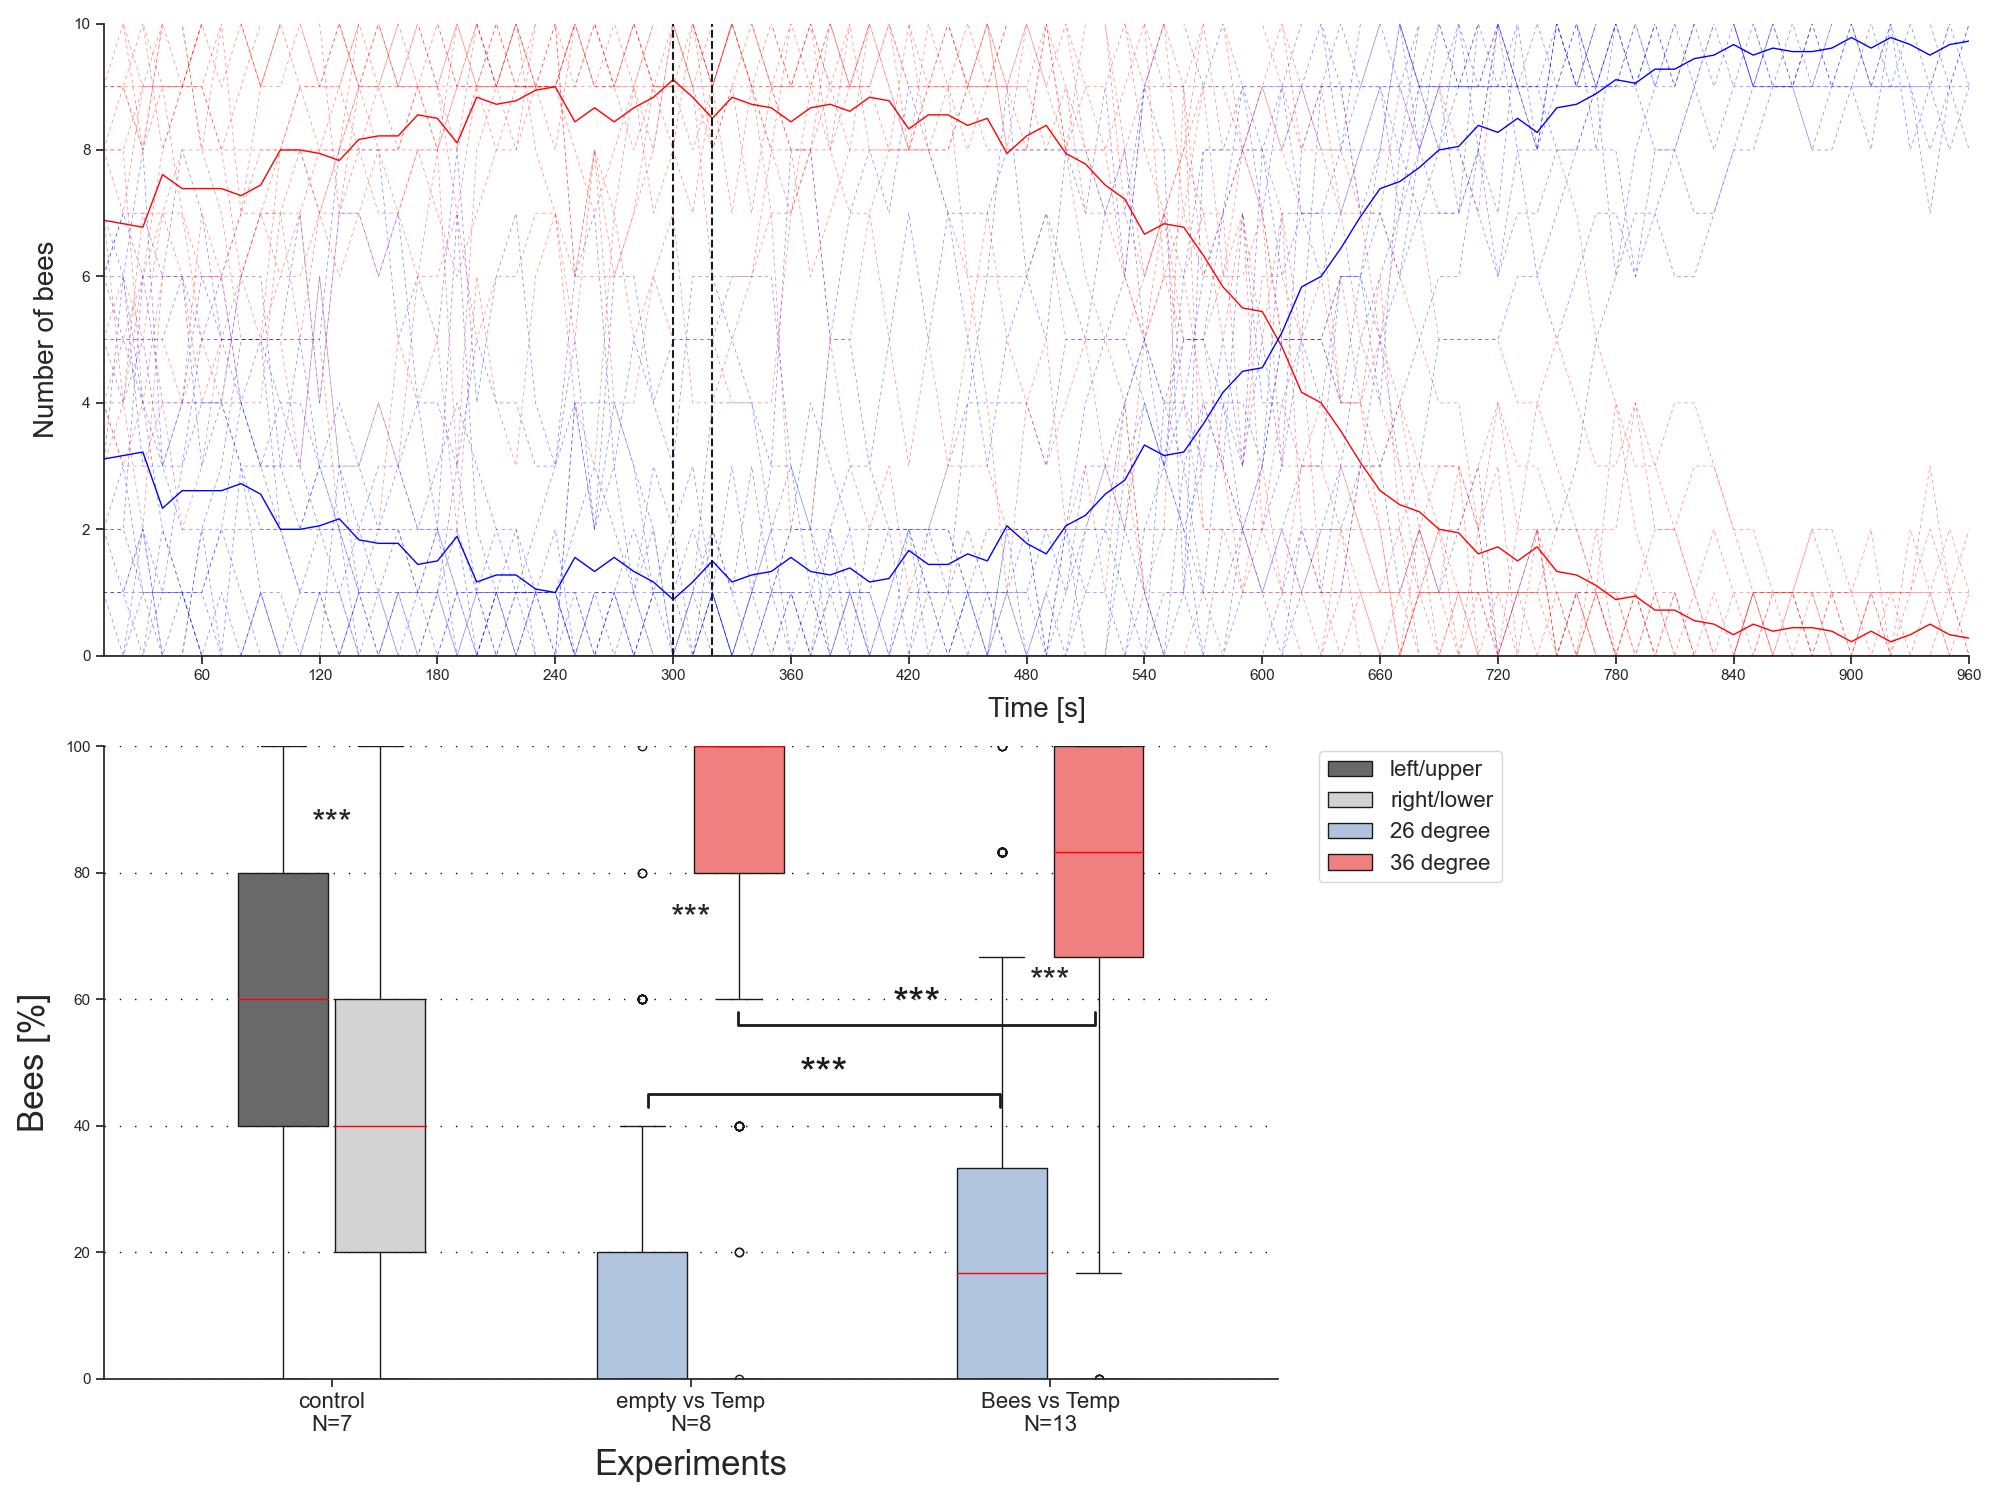
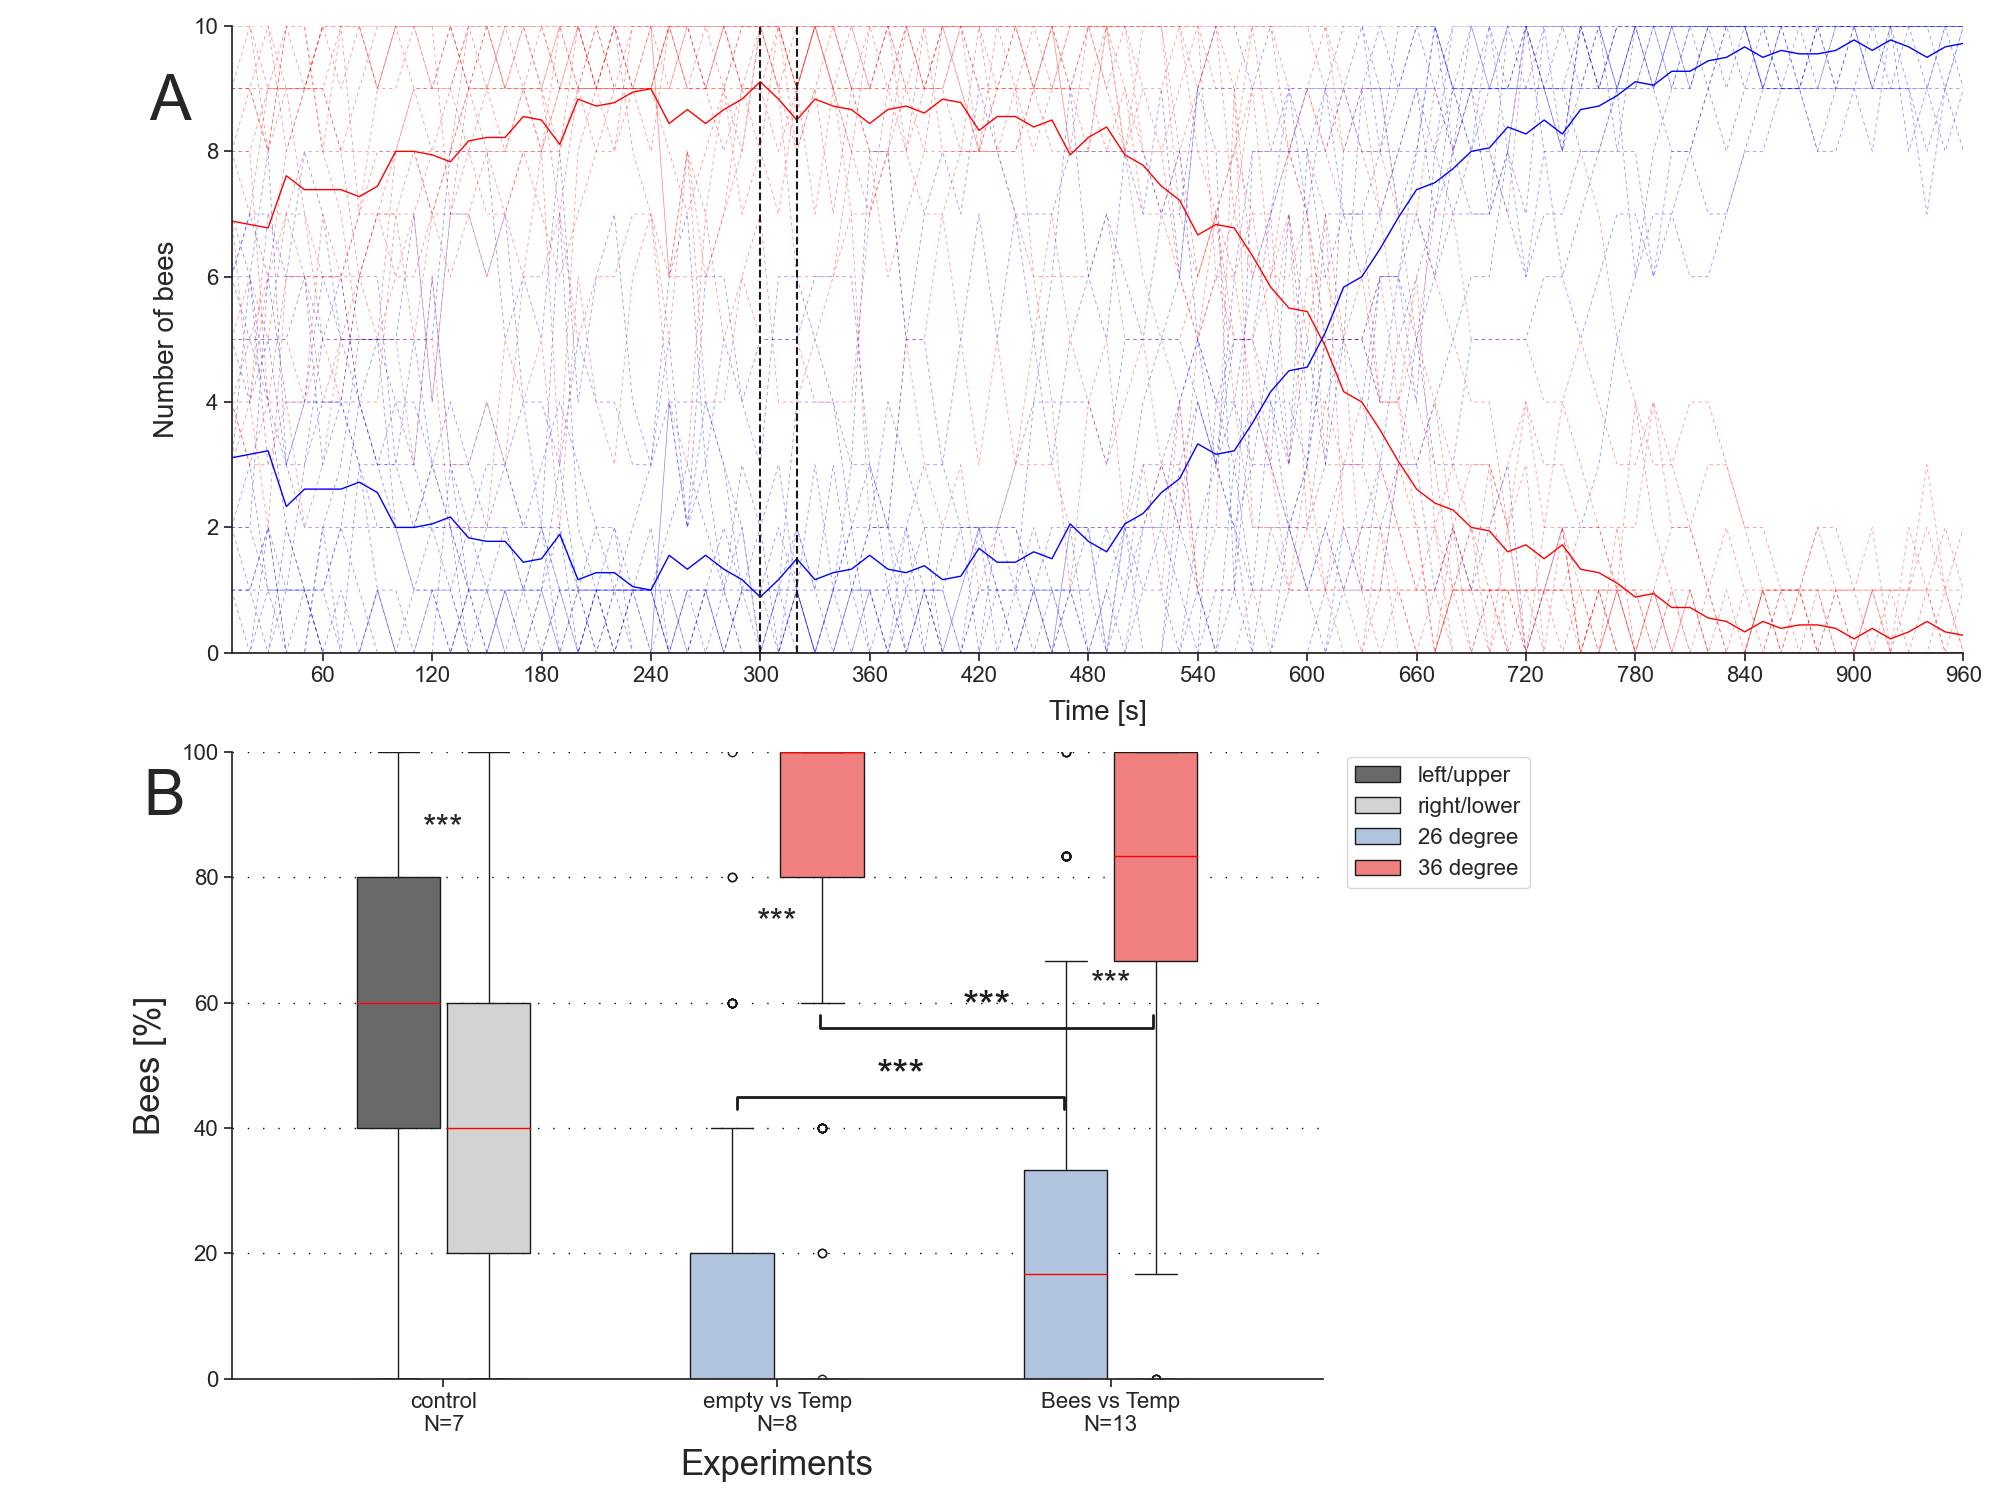
dataprocessing and plotting done

diff --git a/HuberBoxDataProcessing/plotting_Huberbox.py b/HuberBoxDataProcessing/plotting_Huberbox.py
@@ -38,7 +38,7 @@ def boxplot(
     fig0, (ax0, ax1) = plt.subplots(2, 1, figsize=(12, 10))
     AXIS = (ax0, ax1)
     ax0.set_ylim(0, 25)
-    ax1.set_ylim(0, 9)
+    ax1.set_ylim(0, 7)
     
     # all settings that are needed for both plots
     for ax in AXIS:
@@ -87,6 +87,27 @@ def boxplot(
     ax1.annotate('***', xy=(0, 5.5), xytext=(0, 0), textcoords='offset points', ha='center', va='bottom', fontsize=25)
     ax1.annotate('***', xy=(1, 5.5), xytext=(0, 0), textcoords='offset points', ha='center', va='bottom', fontsize=25)
     ax1.annotate('***', xy=(2, 5.5), xytext=(0, 0), textcoords='offset points', ha='center', va='bottom', fontsize=25)
+    ax0.text(-0.85, 21, 'A', fontdict={'fontsize': 45})
+    ax1.text(-0.9, 6.1, 'B', fontdict={'fontsize': 45})
+    ax0.tick_params(axis='y', which='major', labelsize=16)
+    ax1.tick_params(axis='y', which='major', labelsize=16)
+    
+    ax0.text(-0.19, 11, 'N=11', fontdict={'fontsize': 16})
+    ax0.text(0.08, 22, 'N=11', fontdict={'fontsize': 16})
+    ax0.text(0.82, 6, 'N=6', fontdict={'fontsize': 16})
+    ax0.text(1.09, 5, 'N=6', fontdict={'fontsize': 16})
+
+    ax1.text(-0.3, 2.4, 'N=6', fontdict={'fontsize': 16})
+    ax1.text(0.18, 3, 'N=5', fontdict={'fontsize': 16})
+    
+    ax1.text(0.65, 2.3, 'N=22', fontdict={'fontsize': 16})
+    ax1.text(1.18, 2.8, 'N=22', fontdict={'fontsize': 16})
+    
+    ax1.text(1.7, 2.1, 'N=6', fontdict={'fontsize': 16})
+    ax1.text(2.18, 2.4, 'N=6', fontdict={'fontsize': 16})
+
+
+
 
     fig0.tight_layout()
     plt.savefig(os.path.join(os.path.dirname(path), 'graphs', 'Boxplot_TimeTogether.png'))

diff --git a/Casu/plotting_Casu.py b/Casu/plotting_Casu.py
@@ -19,14 +19,18 @@ def plotting_plot(
     WIDTH = 0.25
 
     fig1 = plt.figure(figsize=(20, 15))
-    ax = plt.subplot(2, 3, (1, 3))
-    ax0 = plt.subplot(2, 3, (4, 5))
+    ax = plt.subplot(2, 10, (2, 10))
+    ax0 = plt.subplot(2, 10, (12, 17))
     ax.set_xlim(10, 960)
     ax.set_ylim(0, 10)
     ax.xaxis.set_major_locator(MultipleLocator(60))
     ax.set_ylabel('Number of bees', fontsize=20, labelpad=10)
     ax.set_xlabel('Time [s]', fontsize=20, labelpad=10)
-
+    ax.tick_params(axis='both', which='major', labelsize=16)
+    ax0.tick_params(axis='y', which='major', labelsize=16)
+    ax.text(-35, 8.5, 'A', fontdict={'fontsize': 45})
+    ax0.text(-0.9, 90, 'B', fontdict={'fontsize': 45})
+    
     for i in y_casu_1:
         ax.plot(x_axis, i, color='red', alpha=0.5, linewidth=0.5, linestyle=(0, (5, 5)))
 

diff --git a/HuberBoxDataProcessing/Huberbox.py b/HuberBoxDataProcessing/Huberbox.py
@@ -116,7 +116,7 @@ def main():
     TestData = [
         [np_array_two_26, np_array_two_36],
         [np_array_two_26, np_array_three_26],
-        [np_array_two_36, np_array_three_36],
+        [np_array_three_36, np_array_two_36],
         [np_array_three_26, np_array_three_36],
         [speedOne26array, speedOne36array],
         [speedTwo26array, speedTwo36array],
@@ -132,7 +132,7 @@ def main():
     statistic, p_anova36 = stats.f_oneway(speedOne36array, speedTwo36array, speedThree36array)
 
     print(f'The anova for 26 degrees shows a p_value of {p_anova26}')
-    print(f'The anova for 26 degrees shows a p_value of {p_anova36}')
+    print(f'The anova for 36 degrees shows a p_value of {p_anova36}')
 
     plotA1 = [np_array_two_26, np_array_three_26]
     plotA2 = [np_array_two_36, np_array_three_36]
